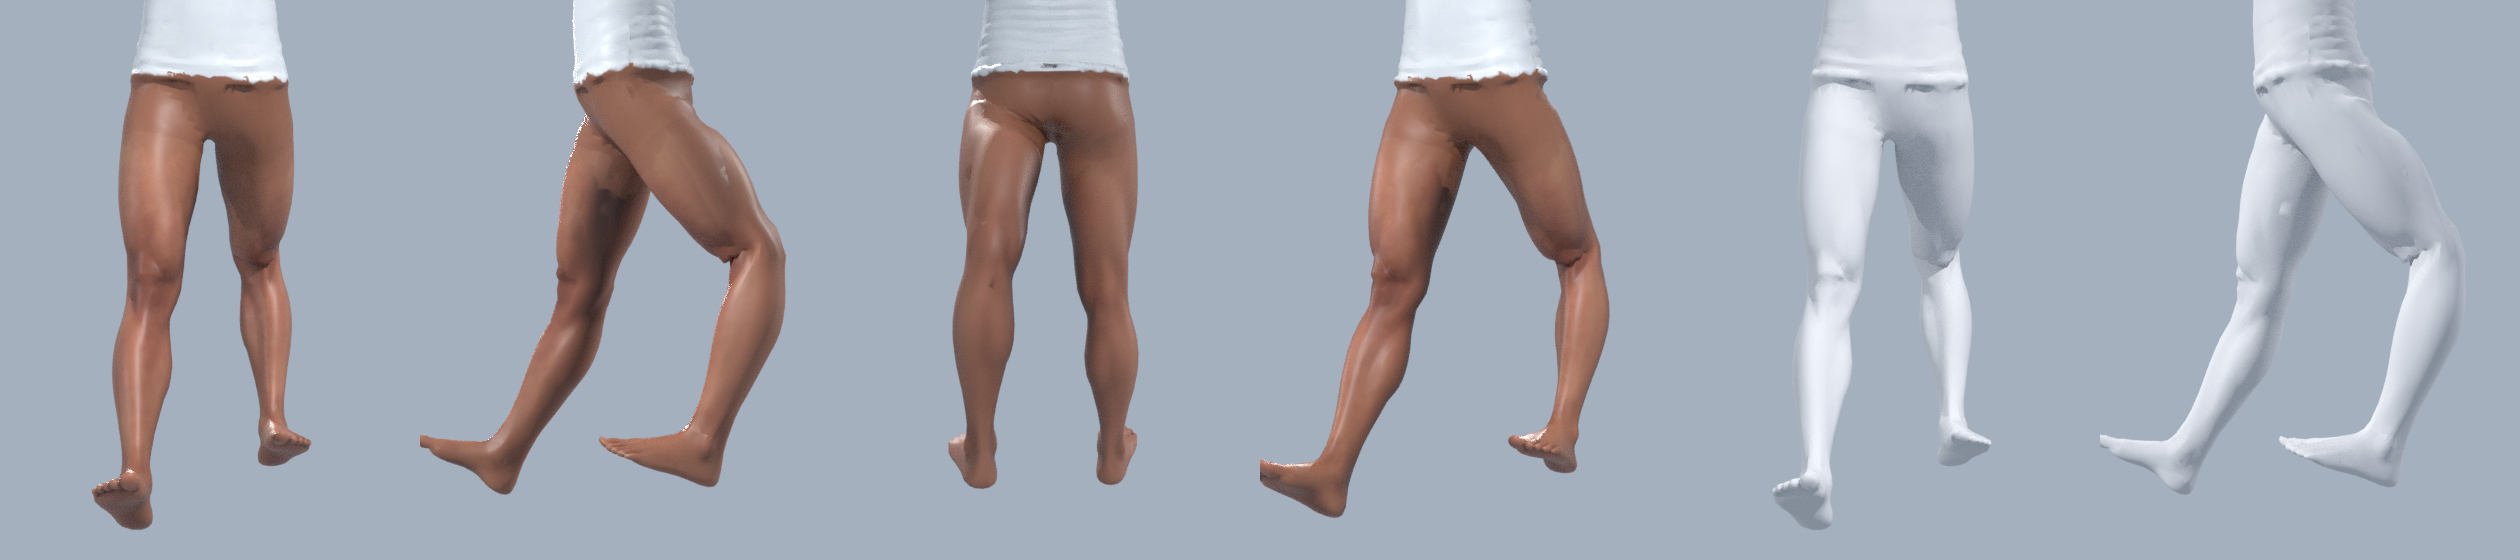
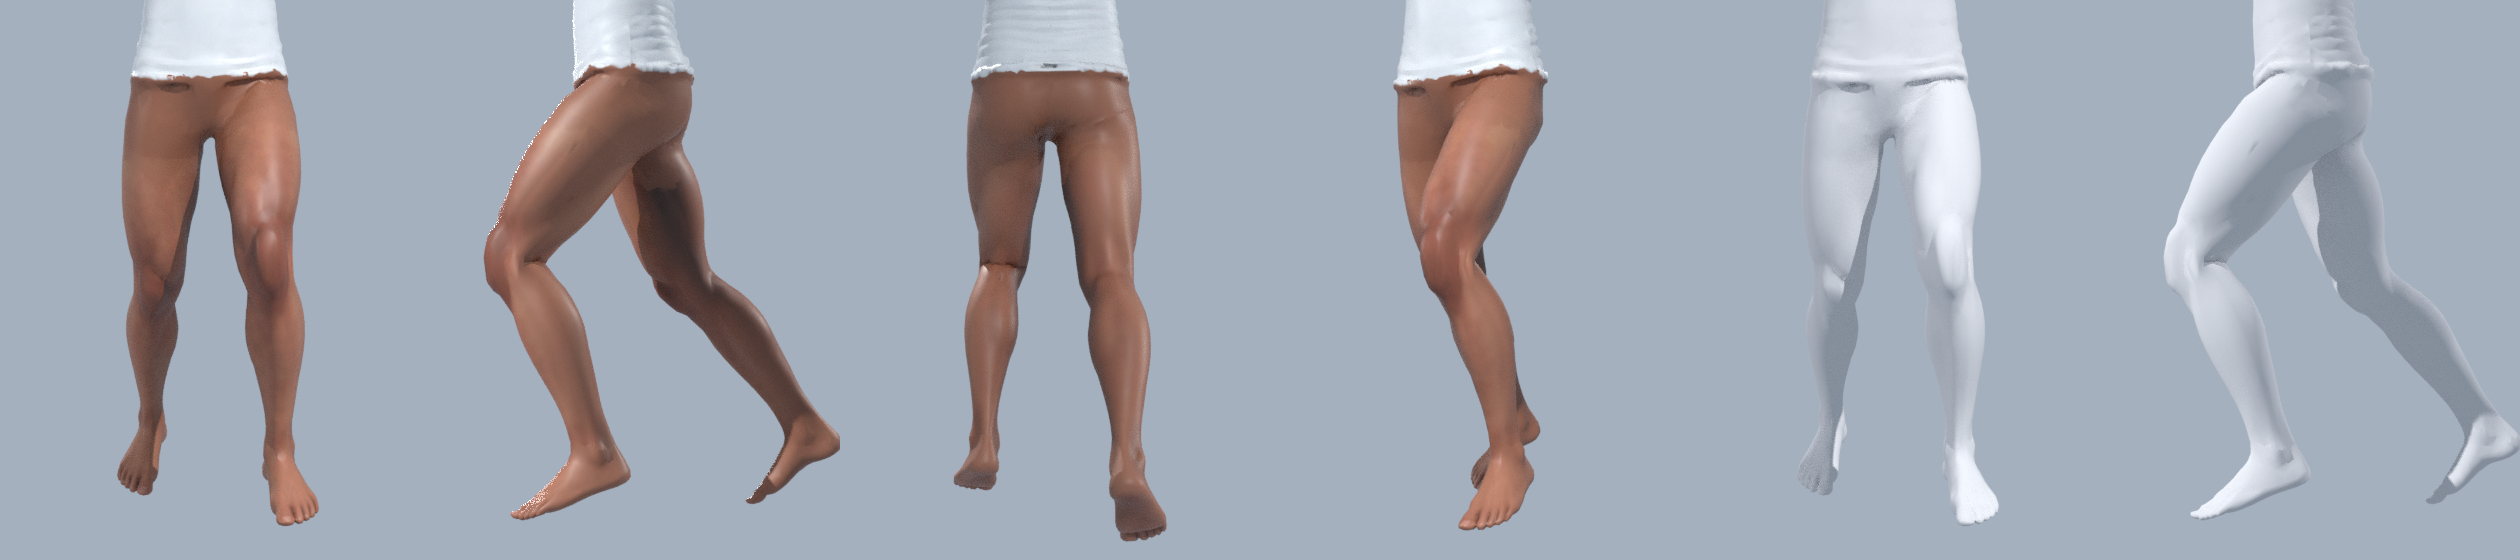
MINI-197: correct the leg stride test pose (knee was bent backwards)
The previous stride render used guessed rotation signs. Measured on this rig
(knee_dir.py): thigh +X swings the knee forward, calf -X puts the ankle behind
the knee. Re-rendered with hip flexion 35 / knee 55 and a trailing right leg.
Mesh and weights unchanged; only the inspection pose was wrong.

Claude-Session: https://claude.ai/code/session_01PGduHbEKfowC7jfF1fNQTG

diff --git a/Tools/CharacterPipeline/mini197_bare_body/knee_dir.py b/Tools/CharacterPipeline/mini197_bare_body/knee_dir.py
@@ -1,0 +1,14 @@
+import bpy,sys,os,math,numpy as np
+bpy.ops.wm.read_factory_settings(use_empty=True); bpy.ops.import_scene.fbx(filepath=os.path.abspath(sys.argv[-1]),use_anim=False); bpy.context.view_layer.update()
+arm=[o for o in bpy.context.scene.objects if o.type=='ARMATURE'][0]; arm.data.pose_position='POSE'; pb=arm.pose.bones
+for b in pb: b.rotation_mode='XYZ'
+def J(n): return np.array(arm.matrix_world@pb[n].head)
+for ax in ('x','y','z'):
+  for th,ca in ((-35,55),(-35,-55),(35,55),(35,-55)):
+    for b in pb: b.rotation_euler=(0,0,0)
+    v=[0,0,0]; v['xyz'.index(ax)]=math.radians(th); pb['CC_Base_L_Thigh'].rotation_euler=v
+    v=[0,0,0]; v['xyz'.index(ax)]=math.radians(ca); pb['CC_Base_L_Calf'].rotation_euler=v
+    bpy.context.view_layer.update()
+    h,k,a=J('CC_Base_L_Thigh'),J('CC_Base_L_Calf'),J('CC_Base_L_Foot')
+    # front is -Y. hip flexion: knee moves to -Y. correct knee bend: ankle behind the knee (+Y relative)
+    print(f'axis {ax} thigh {th:+} calf {ca:+}: knee dy={1000*(k[1]-h[1]):+.0f}mm dx={1000*(k[0]-h[0]):+.0f} | ankle-knee dy={1000*(a[1]-k[1]):+.0f} dx={1000*(a[0]-k[0]):+.0f} dz={1000*(a[2]-k[2]):+.0f}')

diff --git a/Tools/CharacterPipeline/mini197_bare_body/legs_inspect.py b/Tools/CharacterPipeline/mini197_bare_body/legs_inspect.py
@@ -19,7 +19,8 @@ def shoot(tag):
     for m in meshes: m.data.materials[0]=clay
     rlib.closeup(cam,f'{out}_{tag}_clay',(0,0,0.55),1.25,views=(('front',0),('side',90),('back',180)))
 shoot('rest')
-# natural stride: thigh local X points to world -X, so a NEGATIVE angle flexes the hip forward
-pb['CC_Base_L_Thigh'].rotation_euler=(math.radians(-35),0,0); pb['CC_Base_L_Calf'].rotation_euler=(math.radians(55),0,0)
-pb['CC_Base_R_Thigh'].rotation_euler=(math.radians(15),0,0); pb['CC_Base_R_Calf'].rotation_euler=(math.radians(15),0,0)
+# natural stride. Measured with knee_dir.py on this rig: thigh +X swings the knee FORWARD (-Y, front),
+# calf -X puts the ankle BEHIND the knee (correct knee flexion). Opposite signs bend the knee backwards.
+pb['CC_Base_L_Thigh'].rotation_euler=(math.radians(35),0,0); pb['CC_Base_L_Calf'].rotation_euler=(math.radians(-55),0,0)
+pb['CC_Base_R_Thigh'].rotation_euler=(math.radians(-15),0,0); pb['CC_Base_R_Calf'].rotation_euler=(math.radians(-20),0,0)
 bpy.context.view_layer.update(); shoot('bend')
